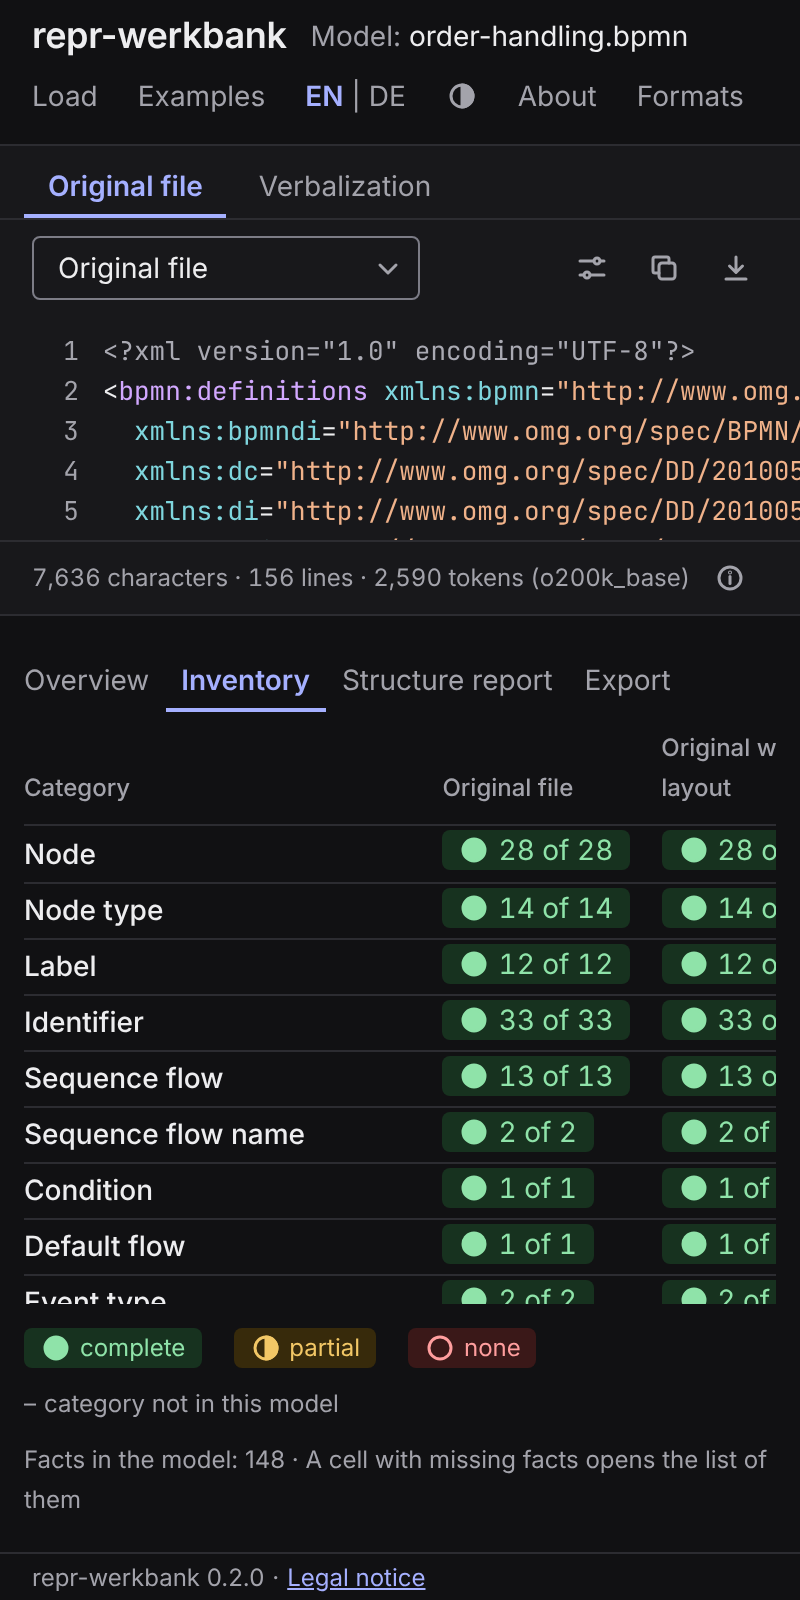
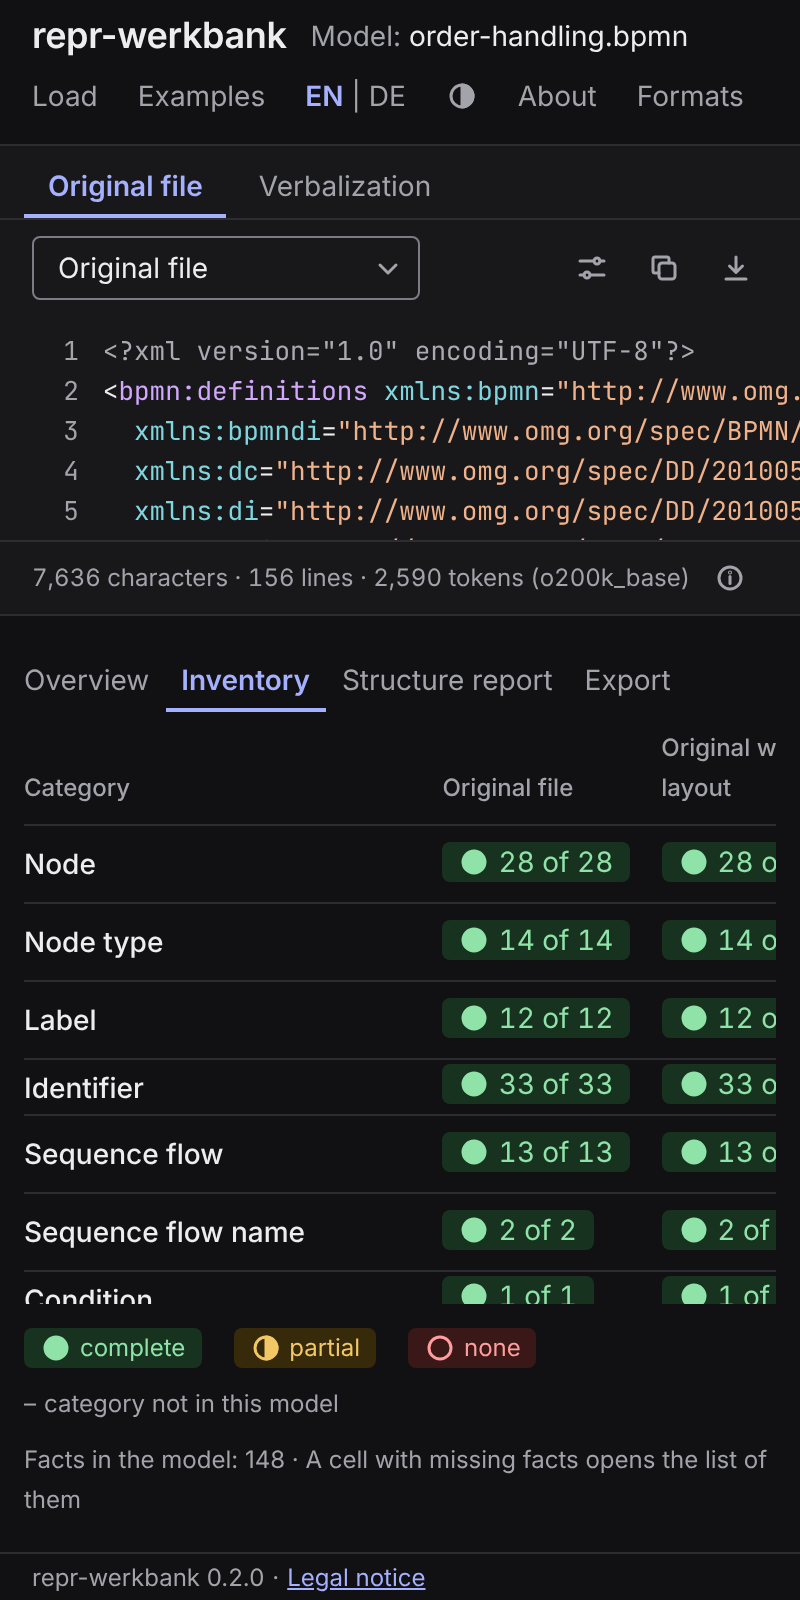
Show the text/visual split of the diagram in the inventory cells (FA-53)
The split was only in the tooltip. It now appears below the pill, and the
M2 screenshots are regenerated. H80 records the change.

Claude-Session: https://claude.ai/code/session_01SKPfC7hE1n3puUpMjABfbP

Changed region(s): [[0.5312, 0.5, 0.9688, 0.8125], [0.0312, 0.5312, 0.4062, 0.8125]]

diff --git a/packages/web/src/i18n.ts b/packages/web/src/i18n.ts
@@ -97,6 +97,7 @@ const en = {
   'inventory.legendAbsent': 'category not in this model',
   'inventory.facts': 'Facts in the model: {n}',
   'inventory.split': '{text} as text, {visual} only visual',
+  'inventory.splitShort': '{text} text · {visual} visual',
   'inventory.cell': '{carried} of {total}',
   'inventory.complete': 'complete',
   'inventory.partial': 'partial',
@@ -318,6 +319,7 @@ const de: Record<Key, string> = {
   'inventory.legendAbsent': 'Kategorie kommt im Modell nicht vor',
   'inventory.facts': 'Fakten im Modell: {n}',
   'inventory.split': '{text} als Text, {visual} nur visuell',
+  'inventory.splitShort': '{text} Text · {visual} visuell',
   'inventory.cell': '{carried} von {total}',
   'inventory.complete': 'vollständig',
   'inventory.partial': 'teilweise',

diff --git a/packages/web/src/lower/inventory.ts b/packages/web/src/lower/inventory.ts
@@ -65,6 +65,10 @@ export function renderInventory(inv: Inventory, columnName: (id: string) => stri
           pill.addEventListener('click', () => handlers.onCell({ column: col.id, category: cat }));
         }
         td.append(pill);
+        // FA-53: the split between "readable as text" and "only visual" is visible in the cell, not only in the tooltip.
+        if (cell.asText !== undefined && cell.visual !== undefined && cell.carried > 0) {
+          td.append(el('span', { class: 'split', 'aria-hidden': 'true' }, t('inventory.splitShort', { text: cell.asText, visual: cell.visual })));
+        }
       } else {
         td.append(el('span', { 'aria-hidden': 'true' }, '–'), el('span', { class: 'sr-only' }, ` ${word}`));
       }

diff --git a/packages/web/src/styles.css b/packages/web/src/styles.css
@@ -587,6 +587,15 @@ select {
   flex: none;
 }
 
+.cell .split {
+  display: block;
+  padding-left: var(--space-8);
+  line-height: 1.25;
+  font-size: var(--font-small);
+  color: var(--color-text-muted);
+  white-space: nowrap;
+}
+
 button.pill {
   border: 0;
   font: inherit;

diff --git a/HANDOVER.md b/HANDOVER.md
@@ -207,6 +207,8 @@ Gebaut in Etappe G: verknüpftes Hervorheben (H73), Übersicht, Inventar mit feh
 
 **H79 – Kleinere Entscheidungen der Etappe G.** (a) Die Sprache der Verbalisierung und des Strukturberichts bleibt eine ausdrückliche Option (H67); bei deutscher Oberfläche steht die Verbalisierung deshalb weiter englisch, bis die Option gesetzt wird (so ist das Bündel gleich der Kommandozeile). (b) Die Matrix des Inventars scrollt in einem eigenen Rahmen (höchstens 36 % der Fensterhöhe) mit festgehaltener Kopfzeile, damit beim Lesen der Liste fehlender Fakten die Spaltennamen sichtbar bleiben. (c) Ein Direktaufruf einer Seite (`#/about`) bleibt auf der Seite, auch wenn im Hintergrund das erste Beispiel lädt; ein vom Menschen geladenes Modell führt zurück zum Arbeitsbereich (im Browsertest gefunden: zuerst sprang der Aufruf zurück). (d) `scripts/screenshots.ts` macht nur noch Bilder; die Prüfungen sind Zusicherungen in `e2e/`. (e) Der Zähler der Testzahlen, die Bilder und die Workflows sind der Stand dieses Commits; die Workflows sind nicht auf GitHub gelaufen.
 
+**H80 – Aufteilung Text/visuell sichtbar (Prüfung nach Etappe G).** FA-53 verlangt, dass das Inventar beim Diagramm zwischen „als Text lesbar“ und „nur visuell kodiert“ unterscheidet. Bis dahin stand die Aufteilung nur im Tooltip und für Vorlesehilfen. Jetzt steht sie zusätzlich sichtbar unter der Zelle („0 Text · 11 visuell“). Preis: Zeilen der Matrix werden etwas höher. Bilder in `docs/screenshots/m2/` neu erzeugt.
+
 ## M2-Bericht
 
 Stand: Commit der Etappe G (`git log`). Befehle in der Wurzel des Repositorys; `npm test` und `npm run check` bauen vorher selbst, `npm run e2e` baut ebenfalls. Tabelle der Tests je Punkt: `docs/acceptance-m2.md`. Bilder: `docs/screenshots/m2/` (hell und dunkel, 1440×900 und 400×800: Grundzustand; Übersicht; Inventar mit geöffneter Liste fehlender Fakten; Export mit Prompt-Baustein; Diagramm mit hervorgehobenem Knoten und den Bereichen in Mermaid beziehungsweise Originaldatei; Über, Formate, Impressum-Platzhalter; deutsche Oberfläche; schmal: Inventar, Diagramm, Über); jedes Bild wurde angesehen.
